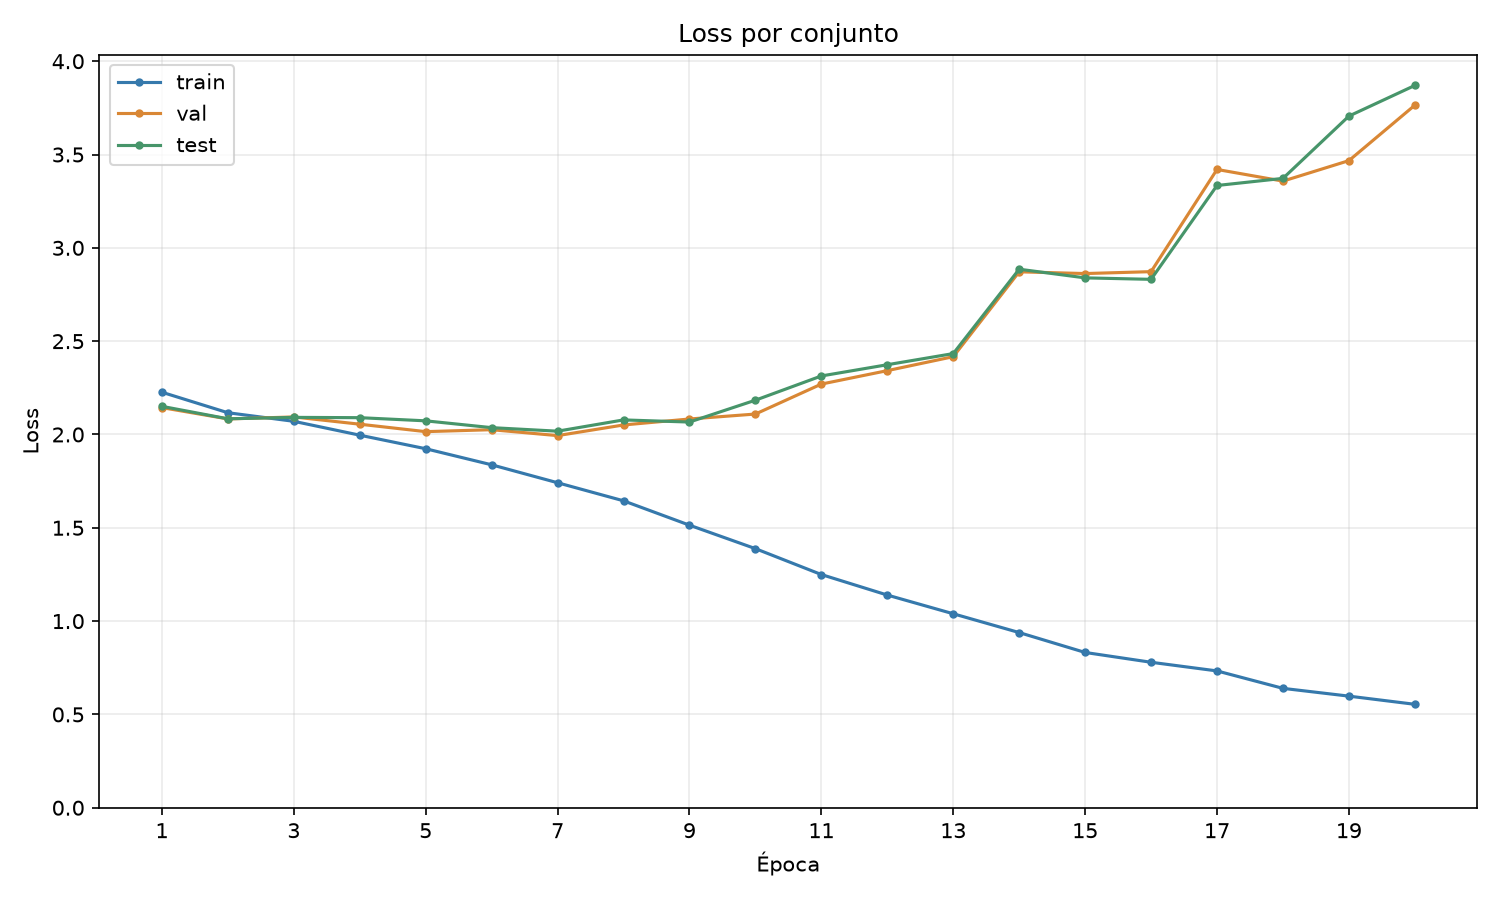
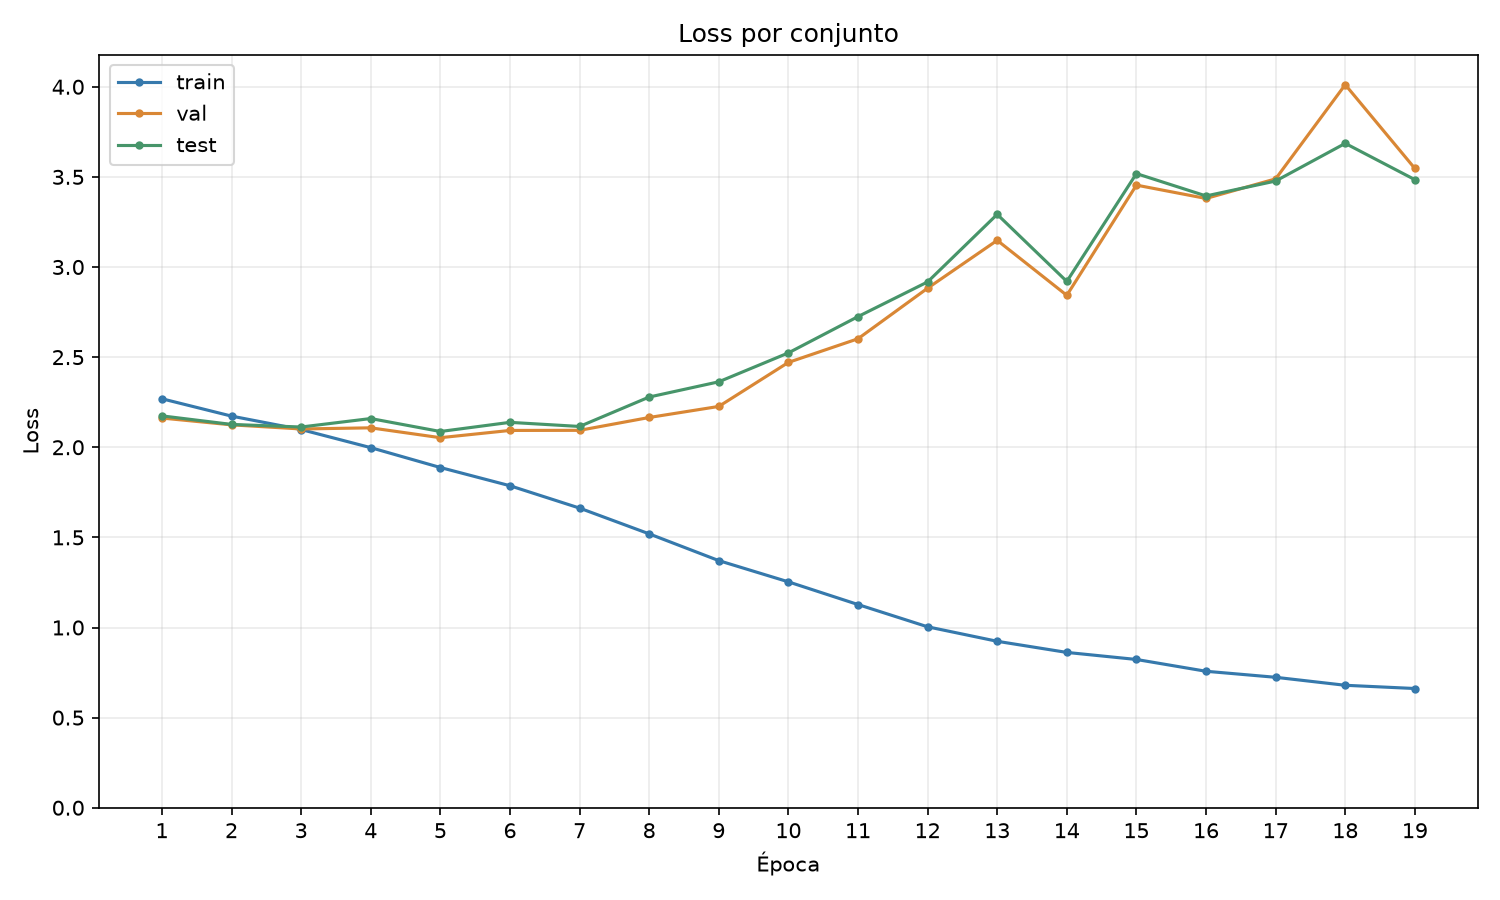
feature: agrega regularizacion l2

diff --git a/src/models/cnn_v2.py b/src/models/cnn_v2.py
@@ -11,11 +11,9 @@ sys.path.insert(0, str(Path(__file__).resolve().parents[1]))
 from models.cnn_v1 import (
     BATCH_SIZE,
     EPOCHS,
-    INPUT_DIR,
     PATIENCE,
     ROOT,
     SEED,
-    SETS_DIR,
     build_model,
     calculate_metrics,
     load_splits,
@@ -26,10 +24,13 @@ from models.cnn_v1 import (
 )
 from scripts.data_analysis import plt, save_figure
 
+INPUT_DIR = ROOT / "data" / "augmented" / "images"
+SETS_DIR = ROOT / "data" / "augmented" / "sets"
 OUTPUT_DIR = ROOT / "public" / "images" / "cnn_v2"
 LEARNING_RATES = (0.001,)
 DROPOUT_RATES = (0.5,)
 POOL_SIZES = ((3, 3), )
+L2_RATES = (1e-4)
 
 def save_hyperparameter_comparisons(search_results, output_dir):
     """Guarda las cinco mejores combinaciones por valor de cada parámetro variable.
@@ -44,6 +45,7 @@ def save_hyperparameter_comparisons(search_results, output_dir):
         ("pool_size", "pooling", "ventanas de max pooling"),
         ("dropout_rate", "dropout", "tasas de dropout"),
         ("learning_rate", "learning", "tasas de aprendizaje"),
+        ("l2_rate", "l2", "coeficientes de regularización L2"),
     )
     for parameter, filename, title in comparisons:
         values = sorted({result[parameter] for result in search_results})
@@ -63,6 +65,7 @@ def save_hyperparameter_comparisons(search_results, output_dir):
             labels = [
                 f"{r['pool_size'][0]}×{r['pool_size'][1]}\n"
                 f"lr={r['learning_rate']:g}\ndropout={r['dropout_rate']:g}\n"
+                f"l2={r['l2_rate']:g}\n"
                 f"{r['num_parameters']:,} parámetros"
                 for r in candidates
             ]
@@ -84,7 +87,7 @@ def save_hyperparameter_comparisons(search_results, output_dir):
 def fit_candidate(model, train_dataset, validation_dataset, validation_labels,
                   epochs=EPOCHS):
     """
-    Entrena un candidato de pooling y guarda pesos por época.
+    Entrena un candidato de hiperparámetros y guarda pesos por época.
 
     Calcula F1 macro sobre toda la validación y conserva los pesos antes de
     que EarlyStopping restaure la mejor época. No evalúa el conjunto de test.
@@ -144,7 +147,7 @@ def fit_candidate(model, train_dataset, validation_dataset, validation_labels,
 def train_model_v2(input_dir=INPUT_DIR, sets_dir=SETS_DIR, output_dir=OUTPUT_DIR,
                 epochs=EPOCHS, batch_size=BATCH_SIZE, seed=SEED, *,
                 learning_rates=LEARNING_RATES, dropout_rates=DROPOUT_RATES,
-                pool_sizes=POOL_SIZES):
+                pool_sizes=POOL_SIZES, l2_rates=L2_RATES):
     """
     Compara todas las combinaciones de hiperparametros mediante
     ParameterGrid y selecciona el modelo con mayor F1 macro de validación.
@@ -166,7 +169,8 @@ def train_model_v2(input_dir=INPUT_DIR, sets_dir=SETS_DIR, output_dir=OUTPUT_DIR
             Se evalúan en orden; si hay empate se conserva la primera.
         dropout_rates (iterable[float]): Dropouts a evaluar; por defecto solo 0.5.
         pool_sizes (iterable[tuple[int, int]]): Ventanas, ordenadas de menor
-            a mayor antes de evaluarlas. Por defecto, de 2x2 a 9x9.
+            a mayor antes de evaluarlas.
+        l2_rates (iterable[float]): Coeficientes finitos y no negativos de L2
 
     Returns:
         dict: model (modelo con mayor F1 macro de validación), history
@@ -175,20 +179,22 @@ def train_model_v2(input_dir=INPUT_DIR, sets_dir=SETS_DIR, output_dir=OUTPUT_DIR
             (métricas finales),
             confusion_matrices (matrices 10x10), class_names (orden de clases)
             y output_dir (Path), además de best_learning_rate (float),
-            best_dropout_rate (float), best_pool_size (tuple[int, int]) y
+            best_dropout_rate (float), best_pool_size (tuple[int, int]),
+            best_l2_rate (float)
             search_results (hiperparámetros, F1, épocas y num_parameters
             por combinación). Las épocas se numeran
             desde 1. Solo se exportan los reportes PNG.
     """
-    # Se aplica a toda la búsqueda; cada candidato reinicia su semilla.
-    tf.config.experimental.enable_op_determinism()
     learning_rates = tuple(learning_rates)
     dropout_rates = tuple(dropout_rates)
     pool_sizes = tuple(sorted(tuple(size) for size in pool_sizes))
+    l2_rates = tuple(float(rate) for rate in l2_rates)
+    
     candidates = ParameterGrid({
         "learning_rate": learning_rates,
         "dropout_rate": dropout_rates,
         "pool_size": pool_sizes,
+        "l2_rate": l2_rates,
     })
     device = "GPU" if tf.config.list_logical_devices("GPU") else "CPU"
     splits, class_names = load_splits(input_dir, sets_dir)
@@ -197,6 +203,7 @@ def train_model_v2(input_dir=INPUT_DIR, sets_dir=SETS_DIR, output_dir=OUTPUT_DIR
     print(
         f"Búsqueda en {device} | learning rates: {learning_rates} | "
         f"dropouts: {dropout_rates} | pooling: {pool_sizes} | "
+        f"L2: {l2_rates} | "
         f"combinaciones: {len(candidates)} | "
         f"épocas máximas: {epochs} | "
         f"batch: {batch_size} | semilla: {seed}",
@@ -219,6 +226,7 @@ def train_model_v2(input_dir=INPUT_DIR, sets_dir=SETS_DIR, output_dir=OUTPUT_DIR
             f"\nCandidato {index}/{len(candidates)} | "
             f"learning_rate={params['learning_rate']:g} | "
             f"dropout_rate={params['dropout_rate']:g} | "
+            f"l2_rate={params['l2_rate']:g} | "
             f"pool_size={params['pool_size']} | parámetros={model.count_params():,}",
             flush=True,
         )
@@ -244,6 +252,7 @@ def train_model_v2(input_dir=INPUT_DIR, sets_dir=SETS_DIR, output_dir=OUTPUT_DIR
             result["best_epoch"] = best_index + 1
             print(
                 f"Ventana {params['pool_size']} | "
+                f"l2_rate={params['l2_rate']:g} | "
                 f"mejor F1 macro val={result['best_val_f1_macro']:.4f} | "
                 f"mejor época={result['best_epoch']} | "
                 f"épocas ejecutadas={result['epochs_run']} | "
@@ -262,7 +271,7 @@ def train_model_v2(input_dir=INPUT_DIR, sets_dir=SETS_DIR, output_dir=OUTPUT_DIR
         del model, history, epoch_weights, train_dataset, validation_dataset
     if best_result is None:
         raise RuntimeError(
-            "Ninguna ventana de pooling produjo un entrenamiento con valores finitos."
+            "Ninguna combinación produjo un entrenamiento con valores finitos."
         )
 
     output_dir = Path(output_dir)
@@ -272,6 +281,7 @@ def train_model_v2(input_dir=INPUT_DIR, sets_dir=SETS_DIR, output_dir=OUTPUT_DIR
         f"\nMejor combinación entre las evaluadas: "
         f"learning_rate={best_result['learning_rate']:g} | "
         f"dropout_rate={best_result['dropout_rate']:g} | "
+        f"l2_rate={best_result['l2_rate']:g} | "
         f"pool_size={best_result['pool_size']} | "
         f"F1 macro de validación: {best_result['best_val_f1_macro']:.4f} | "
         f"mejor época: {best_result['best_epoch']} | "
@@ -283,6 +293,7 @@ def train_model_v2(input_dir=INPUT_DIR, sets_dir=SETS_DIR, output_dir=OUTPUT_DIR
         dropout_rate=best_result["dropout_rate"], model_name="cnn_v2",
         learning_rate=best_result["learning_rate"],
         pool_size=best_result["pool_size"],
+        l2_rate=best_result["l2_rate"],
     )
     datasets = {
         name: make_dataset(data["paths"], data["labels"], batch_size)
@@ -312,6 +323,7 @@ def train_model_v2(input_dir=INPUT_DIR, sets_dir=SETS_DIR, output_dir=OUTPUT_DIR
         "best_learning_rate": best_result["learning_rate"],
         "best_dropout_rate": best_result["dropout_rate"],
         "best_pool_size": best_result["pool_size"],
+        "best_l2_rate": best_result["l2_rate"],
         "search_results": search_results,
     }
 

diff --git a/src/models/cnn_v1.py b/src/models/cnn_v1.py
@@ -158,7 +158,7 @@ def make_dataset(paths, labels, batch_size=BATCH_SIZE, shuffle=False, seed=SEED)
     ).prefetch(1)
 
 def build_model(dropout_rate=0.0, model_name="cnn_v1", learning_rate=0.001,
-                pool_size=(4, 4)):
+                pool_size=(4, 4), l2_rate=0.0):
     """
     Construye y compila la CNN que recibe una imagen y clasifica su automóvil.
     Recorrido por imagen con stride 2 y padding same:
@@ -179,18 +179,27 @@ def build_model(dropout_rate=0.0, model_name="cnn_v1", learning_rate=0.001,
         pool_size (tuple[int, int]): Ventana de max pooling en los cuatro
             bloques, con stride 2 y padding same. Cambiarla conserva
             el tamaño de Flatten y los parámetros de la capa Dense.
+        l2_rate (float): Coeficiente finito y no negativo de L2 sobre los
+            kernels de Conv2D y Dense, sin penalizar sesgos. Cero desactiva L2.
 
     Returns:
         tf.keras.Sequential: Modelo compilado con Adam, pérdida
-            SparseCategoricalCrossentropy y métrica de accuracy multiclase.
+            SparseCategoricalCrossentropy más L2 cuando está activa, y métrica 
+            de accuracy multiclase.
     """
+    l2_rate = float(l2_rate)
+    regularizer = tf.keras.regularizers.L2(l2_rate) if l2_rate else None
+
     # Declarar la forma de cada imagen.
     layers = [tf.keras.layers.Input(shape=IMAGE_SHAPE)]
     
     # Añadir cuatro bloques convolución 3x3 con ReLU y pooling configurable.
     for filters in (16, 32, 64, 128):
         layers.extend([
-            tf.keras.layers.Conv2D(filters, 3, padding="same", activation="relu"),
+            tf.keras.layers.Conv2D(
+                filters, 3, padding="same", activation="relu",
+                kernel_regularizer=regularizer,
+            ),
             tf.keras.layers.MaxPooling2D(
                 pool_size=pool_size, strides=2, padding="same",
             ),
@@ -199,12 +208,16 @@ def build_model(dropout_rate=0.0, model_name="cnn_v1", learning_rate=0.001,
     # Aplanar, combinar características y producir probabilidades.
     layers.extend([
         tf.keras.layers.Flatten(),
-        tf.keras.layers.Dense(128, activation="relu"),
+        tf.keras.layers.Dense(
+            128, activation="relu", kernel_regularizer=regularizer,
+        ),
     ])
     if dropout_rate:
         layers.append(tf.keras.layers.Dropout(dropout_rate))
 
-    layers.append(tf.keras.layers.Dense(NUM_CLASSES, activation="softmax"))
+    layers.append(tf.keras.layers.Dense(
+        NUM_CLASSES, activation="softmax", kernel_regularizer=regularizer,
+    ))
     
     # Encadenar las capas y definir cómo aprenderá el modelo.
     model = tf.keras.Sequential(layers, name=model_name)
@@ -392,8 +405,6 @@ def train_model_v1(input_dir=INPUT_DIR, sets_dir=SETS_DIR, output_dir=OUTPUT_DIR
     # TensorFlow asigna automáticamente las operaciones compatibles a la GPU.
     device = "GPU" if tf.config.list_logical_devices("GPU") else "CPU"
     tf.keras.utils.set_random_seed(seed)
-    # La semilla fija la aleatoriedad; el determinismo fija los cálculos.
-    tf.config.experimental.enable_op_determinism()
     splits, class_names = load_splits(input_dir, sets_dir)
     output_dir = Path(output_dir)
     output_dir.mkdir(parents=True, exist_ok=True)

diff --git a/README.md b/README.md
@@ -148,17 +148,54 @@ En VS Code abre el proyecto conectado a WSL y selecciona
 
 ### Repetibilidad del entrenamiento
 
-Ambas CNN activan `tf.config.experimental.enable_op_determinism()` y fijan
-la semilla con `tf.keras.utils.set_random_seed(seed)` (42 por defecto).
-La CNN v2 reinicia la semilla antes de entrenar cada candidato. Esto permite
-repetir los resultados con los mismos datos, hiperparámetros, dispositivo y
-entorno de software. No garantiza resultados idénticos entre CPU y GPU ni
-entre versiones distintas de las dependencias.
+Ambas CNN fijan la semilla con `tf.keras.utils.set_random_seed(seed)`
+(42 por defecto). La CNN v2 reinicia la semilla antes de entrenar cada
+candidato para controlar la inicialización y la mezcla de datos.
 
-El determinismo puede reducir la velocidad de entrenamiento. Si una operación
-no dispone de implementación determinista, TensorFlow puede lanzar
-`UnimplementedError`. La configuración se aplica tanto desde `main.py` como
-al ejecutar cada CNN directamente.
+### Regularización L2 en CNN v2
+
+La CNN v2 compara `L2_RATES = (0.0, 1e-5, 1e-4, 1e-3)` y elige la
+combinación con mayor F1 macro de validación. `0` es la referencia sin L2 y
+puede ganar; ante un empate se conserva el primer candidato evaluado. Test
+se evalúa después de seleccionar al ganador y no participa en la selección.
+Con learning rate `0.001`, dropout `0.5` y pooling `3×3`, la configuración
+actual ejecuta cuatro entrenamientos en lugar de uno; el tiempo depende
+de las épocas que alcance cada candidato antes de la detención temprana.
+
+El artículo disponible en `docs/Data Augmentation-Driven Improvements in
+Malignant Lymphoma Image Classification.pdf`, sección 2.2 (página 6), usa L2
+de `0.01` con VGG16 preentrenada y learning rate de `1e-6`
+([publicación](https://www.mdpi.com/2073-431X/14/7/252)). Ese valor no demuestra
+ser óptimo para automóviles. El rango inicial de `1e-5` a `1e-3` es una
+adaptación conservadora para esta CNN entrenada desde cero, con aproximadamente
+6.65 millones de parámetros, unas 1,446 imágenes originales de entrenamiento,
+augmentación y dropout de `0.5`. Su beneficio debe verificarse en validación.
+
+L2 se aplica a los kernels de las cuatro convoluciones y ambas capas densas,
+sin penalizar sesgos ni cambiar el número de parámetros. Según
+[Keras](https://keras.io/api/layers/regularizers/), añade
+`l2_rate * sum(square(kernel))` por cada kernel regularizado a la entropía
+cruzada. Por tanto, `loss`, `val_loss` y `test_loss` incluyen esa penalización;
+la selección entre coeficientes sigue usando F1 macro. CNN v1 mantiene L2
+desactivada por defecto.
+
+Para ajustar la búsqueda, cambia `L2_RATES` en `src/models/cnn_v2.py` o pasa
+los valores explícitamente:
+
+```python
+from models.cnn_v2 import train_model_v2
+
+result = train_model_v2(l2_rates=(0.0, 1e-5, 1e-4, 1e-3))
+print(result["best_l2_rate"])
+# Para evaluar un único valor: train_model_v2(l2_rates=(1e-4,))
+```
+
+La colección no puede estar vacía y los coeficientes deben ser finitos y no
+negativos. `search_results` incluye `l2_rate` para cada candidato y el modelo
+devuelto conserva el coeficiente ganador. Cuando se comparan varios valores,
+se genera `public/images/cnn_v2/cnn_v2_l2_comparison.png`; todas las etiquetas
+de comparación incluyen L2. Las comparaciones de parámetros fijos conservan
+sus imágenes existentes.
 
 ### Diagnóstico
 
